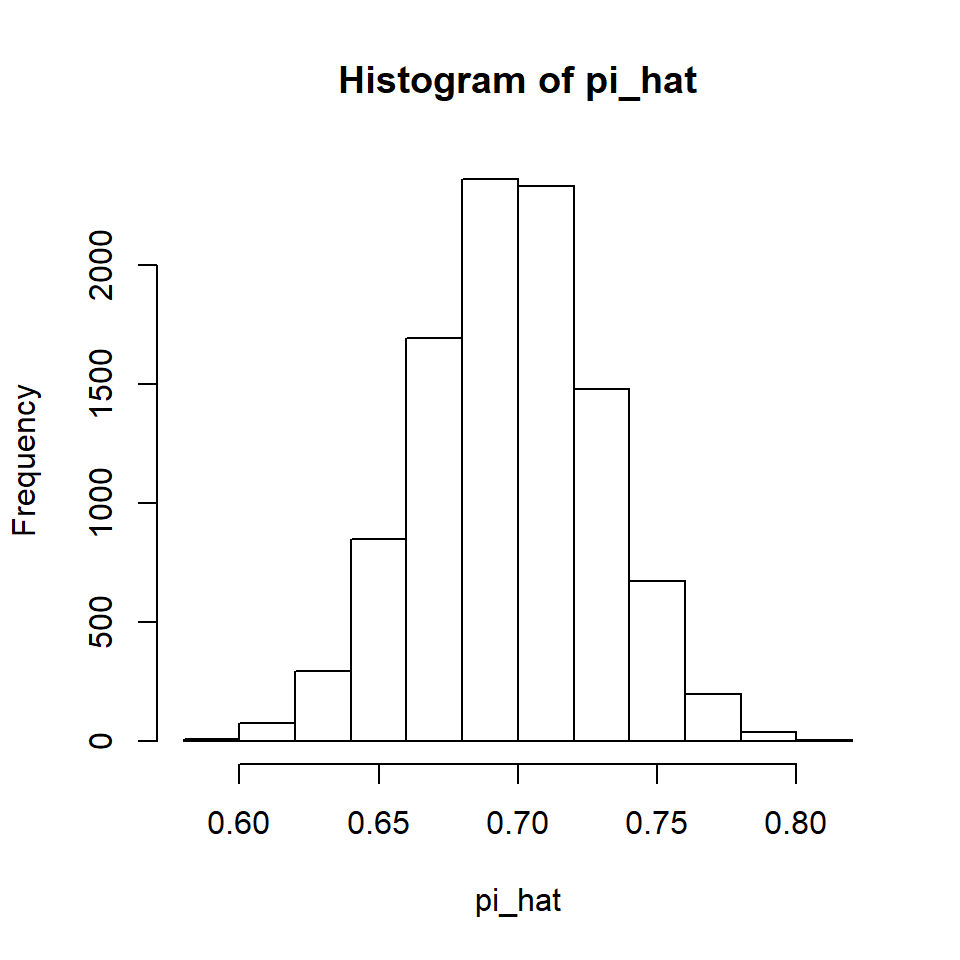
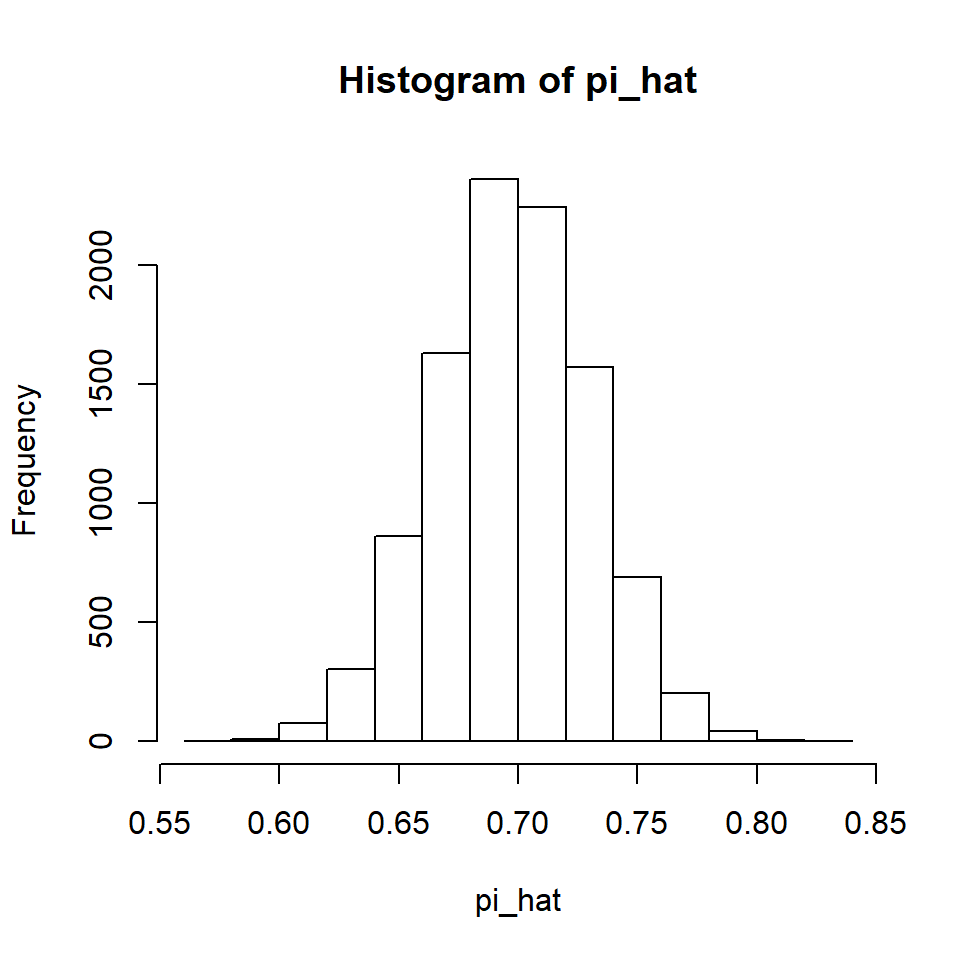
Begin randomization test vignette

diff --git a/docs/articles/randomization.html b/docs/articles/randomization.html
@@ -1,0 +1,155 @@
+<!DOCTYPE html>
+<!-- Generated by pkgdown: do not edit by hand --><html lang="en">
+<head>
+<meta http-equiv="Content-Type" content="text/html; charset=UTF-8">
+<meta charset="utf-8">
+<meta http-equiv="X-UA-Compatible" content="IE=edge">
+<meta name="viewport" content="width=device-width, initial-scale=1.0">
+<title>Randomization Tests • nplearn</title>
+<!-- jquery --><script src="https://cdnjs.cloudflare.com/ajax/libs/jquery/3.3.1/jquery.min.js" integrity="sha256-FgpCb/KJQlLNfOu91ta32o/NMZxltwRo8QtmkMRdAu8=" crossorigin="anonymous"></script><!-- Bootstrap --><link rel="stylesheet" href="https://cdnjs.cloudflare.com/ajax/libs/twitter-bootstrap/3.3.7/css/bootstrap.min.css" integrity="sha256-916EbMg70RQy9LHiGkXzG8hSg9EdNy97GazNG/aiY1w=" crossorigin="anonymous">
+<script src="https://cdnjs.cloudflare.com/ajax/libs/twitter-bootstrap/3.3.7/js/bootstrap.min.js" integrity="sha256-U5ZEeKfGNOja007MMD3YBI0A3OSZOQbeG6z2f2Y0hu8=" crossorigin="anonymous"></script><!-- Font Awesome icons --><link rel="stylesheet" href="https://cdnjs.cloudflare.com/ajax/libs/font-awesome/4.7.0/css/font-awesome.min.css" integrity="sha256-eZrrJcwDc/3uDhsdt61sL2oOBY362qM3lon1gyExkL0=" crossorigin="anonymous">
+<!-- clipboard.js --><script src="https://cdnjs.cloudflare.com/ajax/libs/clipboard.js/2.0.4/clipboard.min.js" integrity="sha256-FiZwavyI2V6+EXO1U+xzLG3IKldpiTFf3153ea9zikQ=" crossorigin="anonymous"></script><!-- sticky kit --><script src="https://cdnjs.cloudflare.com/ajax/libs/sticky-kit/1.1.3/sticky-kit.min.js" integrity="sha256-c4Rlo1ZozqTPE2RLuvbusY3+SU1pQaJC0TjuhygMipw=" crossorigin="anonymous"></script><!-- pkgdown --><link href="../pkgdown.css" rel="stylesheet">
+<script src="../pkgdown.js"></script><meta property="og:title" content="Randomization Tests">
+<meta property="og:description" content="">
+<meta name="twitter:card" content="summary">
+<!-- mathjax --><script src="https://cdnjs.cloudflare.com/ajax/libs/mathjax/2.7.5/MathJax.js" integrity="sha256-nvJJv9wWKEm88qvoQl9ekL2J+k/RWIsaSScxxlsrv8k=" crossorigin="anonymous"></script><script src="https://cdnjs.cloudflare.com/ajax/libs/mathjax/2.7.5/config/TeX-AMS-MML_HTMLorMML.js" integrity="sha256-84DKXVJXs0/F8OTMzX4UR909+jtl4G7SPypPavF+GfA=" crossorigin="anonymous"></script><!--[if lt IE 9]>
+<script src="https://oss.maxcdn.com/html5shiv/3.7.3/html5shiv.min.js"></script>
+<script src="https://oss.maxcdn.com/respond/1.4.2/respond.min.js"></script>
+<![endif]-->
+</head>
+<body>
+    <div class="container template-article">
+      <header><div class="navbar navbar-default navbar-fixed-top" role="navigation">
+  <div class="container">
+    <div class="navbar-header">
+      <button type="button" class="navbar-toggle collapsed" data-toggle="collapse" data-target="#navbar" aria-expanded="false">
+        <span class="sr-only">Toggle navigation</span>
+        <span class="icon-bar"></span>
+        <span class="icon-bar"></span>
+        <span class="icon-bar"></span>
+      </button>
+      <span class="navbar-brand">
+        <a class="navbar-link" href="../index.html">nplearn</a>
+        <span class="version label label-danger" data-toggle="tooltip" data-placement="bottom" title="Unreleased version">0.0.0.9007</span>
+      </span>
+    </div>
+
+    <div id="navbar" class="navbar-collapse collapse">
+      <ul class="nav navbar-nav">
+<li>
+  <a href="../index.html">
+    <span class="fa fa-home fa-lg"></span>
+     
+  </a>
+</li>
+<li>
+  <a href="../reference/index.html">Reference</a>
+</li>
+<li class="dropdown">
+  <a href="#" class="dropdown-toggle" data-toggle="dropdown" role="button" aria-expanded="false">
+    Articles
+     
+    <span class="caret"></span>
+  </a>
+  <ul class="dropdown-menu" role="menu">
+<li>
+      <a href="../articles/Bernoulli-Events.html">Bernoulli Events</a>
+    </li>
+    <li>
+      <a href="../articles/binomdist.html">The Binomial Distribution</a>
+    </li>
+    <li>
+      <a href="../articles/lsprop.html">Large-Sample Proportion Inference</a>
+    </li>
+    <li>
+      <a href="../articles/OnePropExact.html">Exact Inference for a Single Proportion</a>
+    </li>
+    <li>
+      <a href="../articles/randomization.html">Randomization Tests</a>
+    </li>
+    <li>
+      <a href="../articles/signtest.html">The Sign Test</a>
+    </li>
+    <li>
+      <a href="../articles/Workflow-Sample.html">Workflow Sample</a>
+    </li>
+  </ul>
+</li>
+      </ul>
+<ul class="nav navbar-nav navbar-right"></ul>
+</div>
+<!--/.nav-collapse -->
+  </div>
+<!--/.container -->
+</div>
+<!--/.navbar -->
+
+      
+      </header><div class="row">
+  <div class="col-md-9 contents">
+    <div class="page-header toc-ignore">
+      <h1>Randomization Tests</h1>
+            
+      
+      
+      <div class="hidden name"><code>randomization.Rmd</code></div>
+
+    </div>
+
+    
+    
+<p>Randomization tests form the backbone of many nonparametric methods. With traditional statistics instruction, the emphasis is often on estimating a parameter by sampling from an unknown population. We use randomization tests to estimate parameters that will inform us about causal relationships among the explantory and response variables.</p>
+<div id="required-packages" class="section level3">
+<h3 class="hasAnchor">
+<a href="#required-packages" class="anchor"></a>Required packages</h3>
+<p>The only package required for this vignette is the nplearn package.</p>
+<div class="sourceCode" id="cb1"><pre class="sourceCode r"><code class="sourceCode r"><span id="cb1-1"><a href="#cb1-1"></a><span class="kw"><a href="https://www.rdocumentation.org/packages/base/topics/library">library</a></span>(nplearn)</span></code></pre></div>
+</div>
+<div id="the-sign-test-as-a-randomization-test" class="section level3">
+<h3 class="hasAnchor">
+<a href="#the-sign-test-as-a-randomization-test" class="anchor"></a>The sign test as a randomization test</h3>
+<p>In the sign test vignette, I introduced the sign test as a special case of the binomial test. This is an important special case because in a true experiment, when members of a matched pair are randomly assigned to conditions, the null hypothesis of no treatment effect will result in an expectation that in 50% of the pairs we will observe an outcome that favors the control condition and in 50% of the pairs we will observe an outcome that favors the treatment condition. The expectation is a consequence of chance assignment. By contrast, if the treatment has some positive effect, then we would expect a higher number of positive treatment outcomes in the set of matched pairs.</p>
+<p>Let us consider again the fertilizer study that we used when learning about the sign test. In that study, we observed 12 trees matched into 6 pairs with each pair of trees on a different plot of land from the other pairs. Fertilizers A and B were randomly assigned to trees within a pair. (We say that the trees were <em>randomized</em> to the fertilizer conditions.) Suppose that there is no difference in the effectiveness of fertilizers. Would we expect each fruit tree in a matched pair to yield the same amount of fruit? On average across all fruit trees we would expect similar fruit yield, but for any given pair of trees we could well observe different yields due to a variety of extraneous variables, such as tree size, sun exposure, water absorption, and so forth. So if fertilizer is not responsible for a difference, and if fertilizers are randomly assigned to the members of each matched pair, what is responsible for a fertilizer being associated with the tree that yields the most fruit? The answer, of course, is random assignment. So, for example, if Fertilizer B “outperforms” Fertilizer A within a particular pair, it really is not a matter of better performance, but rather due to chance assignment. One tree produced more fruit than the other, and Fertilizer B came along for the ride. Similarly for all fruit tree pairs.</p>
+<p>Here again are the observed data, both in terms of fruit production and in differences among matched pairs.</p>
+<div class="sourceCode" id="cb2"><pre class="sourceCode r"><code class="sourceCode r"><span id="cb2-1"><a href="#cb2-1"></a>fruit &lt;-<span class="st"> </span><span class="kw"><a href="https://www.rdocumentation.org/packages/base/topics/data.frame">data.frame</a></span>(<span class="dt">A =</span> <span class="kw"><a href="https://www.rdocumentation.org/packages/base/topics/c">c</a></span>(<span class="dv">82</span>, <span class="dv">91</span>, <span class="dv">74</span>, <span class="dv">90</span>, <span class="dv">66</span>, <span class="dv">81</span>),</span>
+<span id="cb2-2"><a href="#cb2-2"></a>                    <span class="dt">B =</span> <span class="kw"><a href="https://www.rdocumentation.org/packages/base/topics/c">c</a></span>(<span class="dv">85</span>, <span class="dv">89</span>, <span class="dv">81</span>, <span class="dv">96</span>, <span class="dv">65</span>, <span class="dv">93</span>))</span>
+<span id="cb2-3"><a href="#cb2-3"></a></span>
+<span id="cb2-4"><a href="#cb2-4"></a><span class="kw"><a href="https://www.rdocumentation.org/packages/base/topics/cbind">cbind</a></span>(fruit<span class="op">$</span>A, fruit<span class="op">$</span>B)</span>
+<span id="cb2-5"><a href="#cb2-5"></a><span class="co">#&gt;      [,1] [,2]</span></span>
+<span id="cb2-6"><a href="#cb2-6"></a><span class="co">#&gt; [1,]   82   85</span></span>
+<span id="cb2-7"><a href="#cb2-7"></a><span class="co">#&gt; [2,]   91   89</span></span>
+<span id="cb2-8"><a href="#cb2-8"></a><span class="co">#&gt; [3,]   74   81</span></span>
+<span id="cb2-9"><a href="#cb2-9"></a><span class="co">#&gt; [4,]   90   96</span></span>
+<span id="cb2-10"><a href="#cb2-10"></a><span class="co">#&gt; [5,]   66   65</span></span>
+<span id="cb2-11"><a href="#cb2-11"></a><span class="co">#&gt; [6,]   81   93</span></span>
+<span id="cb2-12"><a href="#cb2-12"></a>A.minus.B &lt;-<span class="st"> </span>fruit<span class="op">$</span>A <span class="op">-</span><span class="st"> </span>fruit<span class="op">$</span>B</span>
+<span id="cb2-13"><a href="#cb2-13"></a>A.minus.B</span>
+<span id="cb2-14"><a href="#cb2-14"></a><span class="co">#&gt; [1]  -3   2  -7  -6   1 -12</span></span></code></pre></div>
+<p>With no difference in fertilizer effectiveness, whether a fertilizer was assigned to the tree bound to be the highest or lowest producer in a pair is a matter of chance. Thus, when looking at the differences, the sign is due to chance assignment. If the “coin flip” had assigned the fertilizers in the opposite manner, the quantities would remain the same, but the sign of each difference would be reversed. All the plus signs would become minus signs, and vice versa.</p>
+<p>Now let us consider all the possible ways this chance assignment could have taken place. This is illustrated in Figure 1.</p>
+<div class="figure">
+<img src="sign-test-patterns.jpg" alt=""><p class="caption"><em>Figure 1</em></p>
+</div>
+</div>
+  </div>
+
+  <div class="col-md-3 hidden-xs hidden-sm" id="sidebar">
+      </div>
+
+</div>
+
+
+      <footer><div class="copyright">
+  <p>Developed by Michael Seaman.</p>
+</div>
+
+<div class="pkgdown">
+  <p>Site built with <a href="https://pkgdown.r-lib.org/">pkgdown</a> 1.3.0.</p>
+</div>
+      </footer>
+</div>
+
+  
+
+  </body>
+</html>

diff --git a/docs/articles/lsprop.html b/docs/articles/lsprop.html
@@ -65,6 +65,9 @@
       <a href="../articles/OnePropExact.html">Exact Inference for a Single Proportion</a>
     </li>
     <li>
+      <a href="../articles/randomization.html">Randomization Tests</a>
+    </li>
+    <li>
       <a href="../articles/signtest.html">The Sign Test</a>
     </li>
     <li>
@@ -112,8 +115,8 @@
 <span id="cb2-2"><a href="#cb2-2"></a>pi &lt;-<span class="st"> </span><span class="fl">0.7</span></span>
 <span id="cb2-3"><a href="#cb2-3"></a></span>
 <span id="cb2-4"><a href="#cb2-4"></a><span class="kw"><a href="https://www.rdocumentation.org/packages/Rlab/topics/Bernoulli">rbern</a></span>(n, pi)</span>
-<span id="cb2-5"><a href="#cb2-5"></a><span class="co">#&gt;  [1] 1 0 1 1 0 1 1 0 1 1 1 0 1 0 1 1 0 1 0 1 1 1 0 1 0 1 1 1 1 1 0 1 1 0 1</span></span>
-<span id="cb2-6"><a href="#cb2-6"></a><span class="co">#&gt; [36] 1 0 0 0 0</span></span></code></pre></div>
+<span id="cb2-5"><a href="#cb2-5"></a><span class="co">#&gt;  [1] 1 1 1 0 1 1 0 1 1 1 1 1 1 1 1 1 1 1 1 1 0 1 1 1 0 1 0 1 1 1 1 1 1 1 1</span></span>
+<span id="cb2-6"><a href="#cb2-6"></a><span class="co">#&gt; [36] 1 1 1 0 1</span></span></code></pre></div>
 <p>Now we will repeat this simulation 10,000 times. Each time, we will calculate the proportion success in the sample and save it.</p>
 <div class="sourceCode" id="cb3"><pre class="sourceCode r"><code class="sourceCode r"><span id="cb3-1"><a href="#cb3-1"></a>reps &lt;-<span class="st"> </span><span class="dv">10000</span></span>
 <span id="cb3-2"><a href="#cb3-2"></a></span>
@@ -123,7 +126,7 @@
 <p><img src="lsprop_files/figure-html/unnamed-chunk-4-1.png" width="480"></p>
 <p>We can see the CLT at work. Further, note that if we calculate the mean of all 10,000 values of the sample proportions, it is quite close to the population proportion of 0.7.</p>
 <div class="sourceCode" id="cb5"><pre class="sourceCode r"><code class="sourceCode r"><span id="cb5-1"><a href="#cb5-1"></a><span class="kw"><a href="https://www.rdocumentation.org/packages/base/topics/mean">mean</a></span>(pi_hat)</span>
-<span id="cb5-2"><a href="#cb5-2"></a><span class="co">#&gt; [1] 0.70138</span></span></code></pre></div>
+<span id="cb5-2"><a href="#cb5-2"></a><span class="co">#&gt; [1] 0.69989</span></span></code></pre></div>
 <p>When the mean of a statistic’s sampling distribution is the population value of the parameter the statistic is estimating, we refer to the statistic as <em>unbiased</em>. This is a desirable property because it tells us that the average of many wrongs is a right!</p>
 <p>If we increase the sample size, we can see the Law of Large Numbers at work. Let’s try increasing it from 40 to 200.</p>
 <div class="sourceCode" id="cb6"><pre class="sourceCode r"><code class="sourceCode r"><span id="cb6-1"><a href="#cb6-1"></a>n &lt;-<span class="st"> </span><span class="dv">200</span></span>

diff --git a/docs/articles/binomdist.html b/docs/articles/binomdist.html
@@ -65,6 +65,9 @@
       <a href="../articles/OnePropExact.html">Exact Inference for a Single Proportion</a>
     </li>
     <li>
+      <a href="../articles/randomization.html">Randomization Tests</a>
+    </li>
+    <li>
       <a href="../articles/signtest.html">The Sign Test</a>
     </li>
     <li>
@@ -279,7 +282,7 @@
 <p>The important trick to remember here is that if we want an upper tail that includes a specified value (in this case, the value of eight), we need to subtract one from this value to make sure it is included in the upper region of the distribution.</p>
 <p>Finally, suppose we wanted to do a simulation using the binomial distribution. Here are 20 random draws from a distribution with <span class="math inline">\(\pi\)</span> = 0.8 when the sample size is 15.</p>
 <div class="sourceCode" id="cb37"><pre class="sourceCode r"><code class="sourceCode r"><span id="cb37-1"><a href="#cb37-1"></a><span class="kw"><a href="https://www.rdocumentation.org/packages/stats/topics/Binomial">rbinom</a></span>(<span class="dv">20</span>, <span class="dv">15</span>, <span class="fl">0.8</span>)</span>
-<span id="cb37-2"><a href="#cb37-2"></a><span class="co">#&gt;  [1] 12 12 14 14 13 13 13 12 12 13 10 12 12 11 11 13 14 13 13 12</span></span></code></pre></div>
+<span id="cb37-2"><a href="#cb37-2"></a><span class="co">#&gt;  [1] 15 15 13 11 11 12 10 13 11 14 12 14 10 14 12 14 13 11 11 14</span></span></code></pre></div>
 <p>Keep in mind that what each number we are randomly generating is the value of <span class="math inline">\(x\)</span>, which is the number of successes in <span class="math inline">\(n\)</span> trials. In this example there are 15 opportunities for success. The probability of success is quite high, so we are primarily seeing high numbers of successes out of the 15 trials.</p>
 <p>In this example, we were drawing from a binomial distribution with <span class="math inline">\(n\)</span> trials and a probability of success, <span class="math inline">\(\pi\)</span>. These are the parameters of the binomial distribution. Any binomial distribution can be generated if we know these two parameters. Let’s end with a picture of a binomial distribution when <span class="math inline">\(n\)</span> = 100 and <span class="math inline">\(\pi\)</span> = 0.5.</p>
 <div class="sourceCode" id="cb38"><pre class="sourceCode r"><code class="sourceCode r"><span id="cb38-1"><a href="#cb38-1"></a><span class="kw"><a href="../reference/binom_plot.html">binom_plot</a></span>(<span class="dv">100</span>, <span class="fl">0.5</span>)</span></code></pre></div>

diff --git a/docs/articles/Bernoulli-Events.html b/docs/articles/Bernoulli-Events.html
@@ -65,6 +65,9 @@
       <a href="../articles/OnePropExact.html">Exact Inference for a Single Proportion</a>
     </li>
     <li>
+      <a href="../articles/randomization.html">Randomization Tests</a>
+    </li>
+    <li>
       <a href="../articles/signtest.html">The Sign Test</a>
     </li>
     <li>
@@ -192,10 +195,10 @@
 <a href="#random-variates" class="anchor"></a>Random variates</h3>
 <p>R also has (r) functions for many distributions (e.g., rnorm and rbern). These provide us a specified number of randomly seleted values from the corresponding distribution. These are known as “random variates”. This will be very handy when we study concepts such as Monte Carlo methods.</p>
 <div class="sourceCode" id="cb15"><pre class="sourceCode r"><code class="sourceCode r"><span id="cb15-1"><a href="#cb15-1"></a><span class="kw"><a href="https://www.rdocumentation.org/packages/stats/topics/Normal">rnorm</a></span>(<span class="dv">10</span>)</span>
-<span id="cb15-2"><a href="#cb15-2"></a><span class="co">#&gt;  [1]  0.1210673 -0.5922141 -0.5516040  1.5580930 -0.5874942  1.2093310</span></span>
-<span id="cb15-3"><a href="#cb15-3"></a><span class="co">#&gt;  [7]  0.6343851  1.1108001  2.1798830 -0.9169837</span></span>
+<span id="cb15-2"><a href="#cb15-2"></a><span class="co">#&gt;  [1] -0.5822538 -1.1806970  0.8763166  0.7336097 -0.3339105  0.4925034</span></span>
+<span id="cb15-3"><a href="#cb15-3"></a><span class="co">#&gt;  [7]  1.2504319  0.7077736  0.1241804 -0.3737550</span></span>
 <span id="cb15-4"><a href="#cb15-4"></a><span class="kw">rbern</span>(<span class="dv">10</span>, <span class="fl">0.7</span>)</span>
-<span id="cb15-5"><a href="#cb15-5"></a><span class="co">#&gt;  [1] 0 1 1 1 1 1 1 1 1 1</span></span></code></pre></div>
+<span id="cb15-5"><a href="#cb15-5"></a><span class="co">#&gt;  [1] 0 0 1 0 1 1 1 1 1 0</span></span></code></pre></div>
 </div>
   </div>
 

diff --git a/doc/Bernoulli-Events.html b/doc/Bernoulli-Events.html
@@ -398,10 +398,10 @@ code > span.fu { color: #900; font-weight: bold; }  code > span.er { color: #a61
 <h3>Random variates</h3>
 <p>R also has (r) functions for many distributions (e.g., rnorm and rbern). These provide us a specified number of randomly seleted values from the corresponding distribution. These are known as “random variates”. This will be very handy when we study concepts such as Monte Carlo methods.</p>
 <div class="sourceCode" id="cb15"><pre class="sourceCode r"><code class="sourceCode r"><span id="cb15-1"><a href="#cb15-1"></a><span class="kw">rnorm</span>(<span class="dv">10</span>)</span>
-<span id="cb15-2"><a href="#cb15-2"></a><span class="co">#&gt;  [1]  1.3235166  0.1933693  1.3542819 -0.1124570 -1.3003363 -0.6155236</span></span>
-<span id="cb15-3"><a href="#cb15-3"></a><span class="co">#&gt;  [7]  2.0349354  1.6056962  0.7938783  0.1072287</span></span>
+<span id="cb15-2"><a href="#cb15-2"></a><span class="co">#&gt;  [1]  0.9856956  3.5901993  0.3744640 -0.3126161 -1.1549064 -0.8730365</span></span>
+<span id="cb15-3"><a href="#cb15-3"></a><span class="co">#&gt;  [7]  0.2631414 -0.2364868  1.3013033 -0.5544770</span></span>
 <span id="cb15-4"><a href="#cb15-4"></a><span class="kw">rbern</span>(<span class="dv">10</span>, <span class="fl">0.7</span>)</span>
-<span id="cb15-5"><a href="#cb15-5"></a><span class="co">#&gt;  [1] 1 0 0 1 1 1 1 1 1 1</span></span></code></pre></div>
+<span id="cb15-5"><a href="#cb15-5"></a><span class="co">#&gt;  [1] 1 0 1 1 0 1 1 1 1 0</span></span></code></pre></div>
 </div>
 
 

diff --git a/docs/articles/index.html b/docs/articles/index.html
@@ -95,6 +95,9 @@
       <a href="../articles/OnePropExact.html">Exact Inference for a Single Proportion</a>
     </li>
     <li>
+      <a href="../articles/randomization.html">Randomization Tests</a>
+    </li>
+    <li>
       <a href="../articles/signtest.html">The Sign Test</a>
     </li>
     <li>
@@ -130,6 +133,7 @@
         <li><a href="binomdist.html">The Binomial Distribution</a></li>
         <li><a href="lsprop.html">Large-Sample Proportion Inference</a></li>
         <li><a href="OnePropExact.html">Exact Inference for a Single Proportion</a></li>
+        <li><a href="randomization.html">Randomization Tests</a></li>
         <li><a href="signtest.html">The Sign Test</a></li>
         <li><a href="Workflow-Sample.html">Workflow Sample</a></li>
       </ul>

diff --git a/docs/reference/binom_plot.html b/docs/reference/binom_plot.html
@@ -99,6 +99,9 @@ specified number of trials and a constant probability of success." />
       <a href="../articles/OnePropExact.html">Exact Inference for a Single Proportion</a>
     </li>
     <li>
+      <a href="../articles/randomization.html">Randomization Tests</a>
+    </li>
+    <li>
       <a href="../articles/signtest.html">The Sign Test</a>
     </li>
     <li>

diff --git a/docs/reference/power_plot.html b/docs/reference/power_plot.html
@@ -100,6 +100,9 @@ a maximum Type I error rate, and an optional power target." />
       <a href="../articles/OnePropExact.html">Exact Inference for a Single Proportion</a>
     </li>
     <li>
+      <a href="../articles/randomization.html">Randomization Tests</a>
+    </li>
+    <li>
       <a href="../articles/signtest.html">The Sign Test</a>
     </li>
     <li>

diff --git a/docs/reference/bern_plot.html b/docs/reference/bern_plot.html
@@ -99,6 +99,9 @@ specified probability of success of a Bernoulli event." />
       <a href="../articles/OnePropExact.html">Exact Inference for a Single Proportion</a>
     </li>
     <li>
+      <a href="../articles/randomization.html">Randomization Tests</a>
+    </li>
+    <li>
       <a href="../articles/signtest.html">The Sign Test</a>
     </li>
     <li>

diff --git a/docs/reference/nplearn-package.html b/docs/reference/nplearn-package.html
@@ -100,6 +100,9 @@
       <a href="../articles/OnePropExact.html">Exact Inference for a Single Proportion</a>
     </li>
     <li>
+      <a href="../articles/randomization.html">Randomization Tests</a>
+    </li>
+    <li>
       <a href="../articles/signtest.html">The Sign Test</a>
     </li>
     <li>

diff --git a/docs/articles/OnePropExact.html b/docs/articles/OnePropExact.html
@@ -65,6 +65,9 @@
       <a href="../articles/OnePropExact.html">Exact Inference for a Single Proportion</a>
     </li>
     <li>
+      <a href="../articles/randomization.html">Randomization Tests</a>
+    </li>
+    <li>
       <a href="../articles/signtest.html">The Sign Test</a>
     </li>
     <li>

diff --git a/docs/articles/Workflow-Sample.html b/docs/articles/Workflow-Sample.html
@@ -65,6 +65,9 @@
       <a href="../articles/OnePropExact.html">Exact Inference for a Single Proportion</a>
     </li>
     <li>
+      <a href="../articles/randomization.html">Randomization Tests</a>
+    </li>
+    <li>
       <a href="../articles/signtest.html">The Sign Test</a>
     </li>
     <li>
